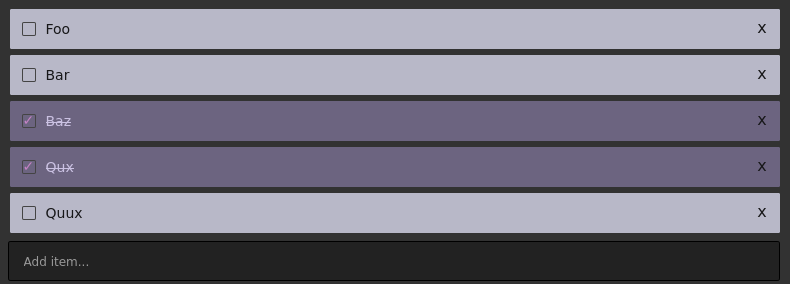
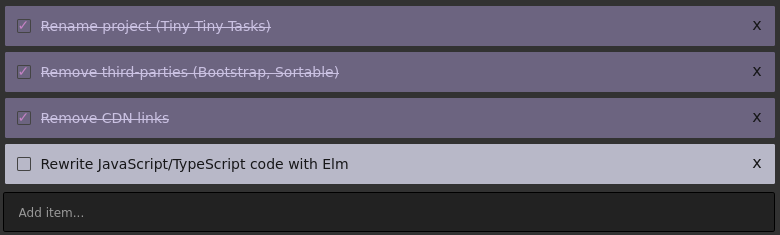
Update tasks of tiny tiny tasks

diff --git a/README.md b/README.md
@@ -5,16 +5,9 @@ temporary tiny tasks.
 
 ![Logo](img/logo-72x72.png?raw=true "Logo - TTT")
 
-## TODO
+## To-do list
 
-* [ ] Fix syntax (TypeScript, Stylus)
-* [x] Remove CDN links
-* [x] Remove third-parties (Bootstrap, Sortable)
-* [x] Rename project
-
-## Screenshot
-
-![Screenshot](img/screenshot.png?raw=true "Screenshot - TTT")
+![To-do list](img/screenshot.png?raw=true "To-do list - TTT")
 
 ## Glitch
 
